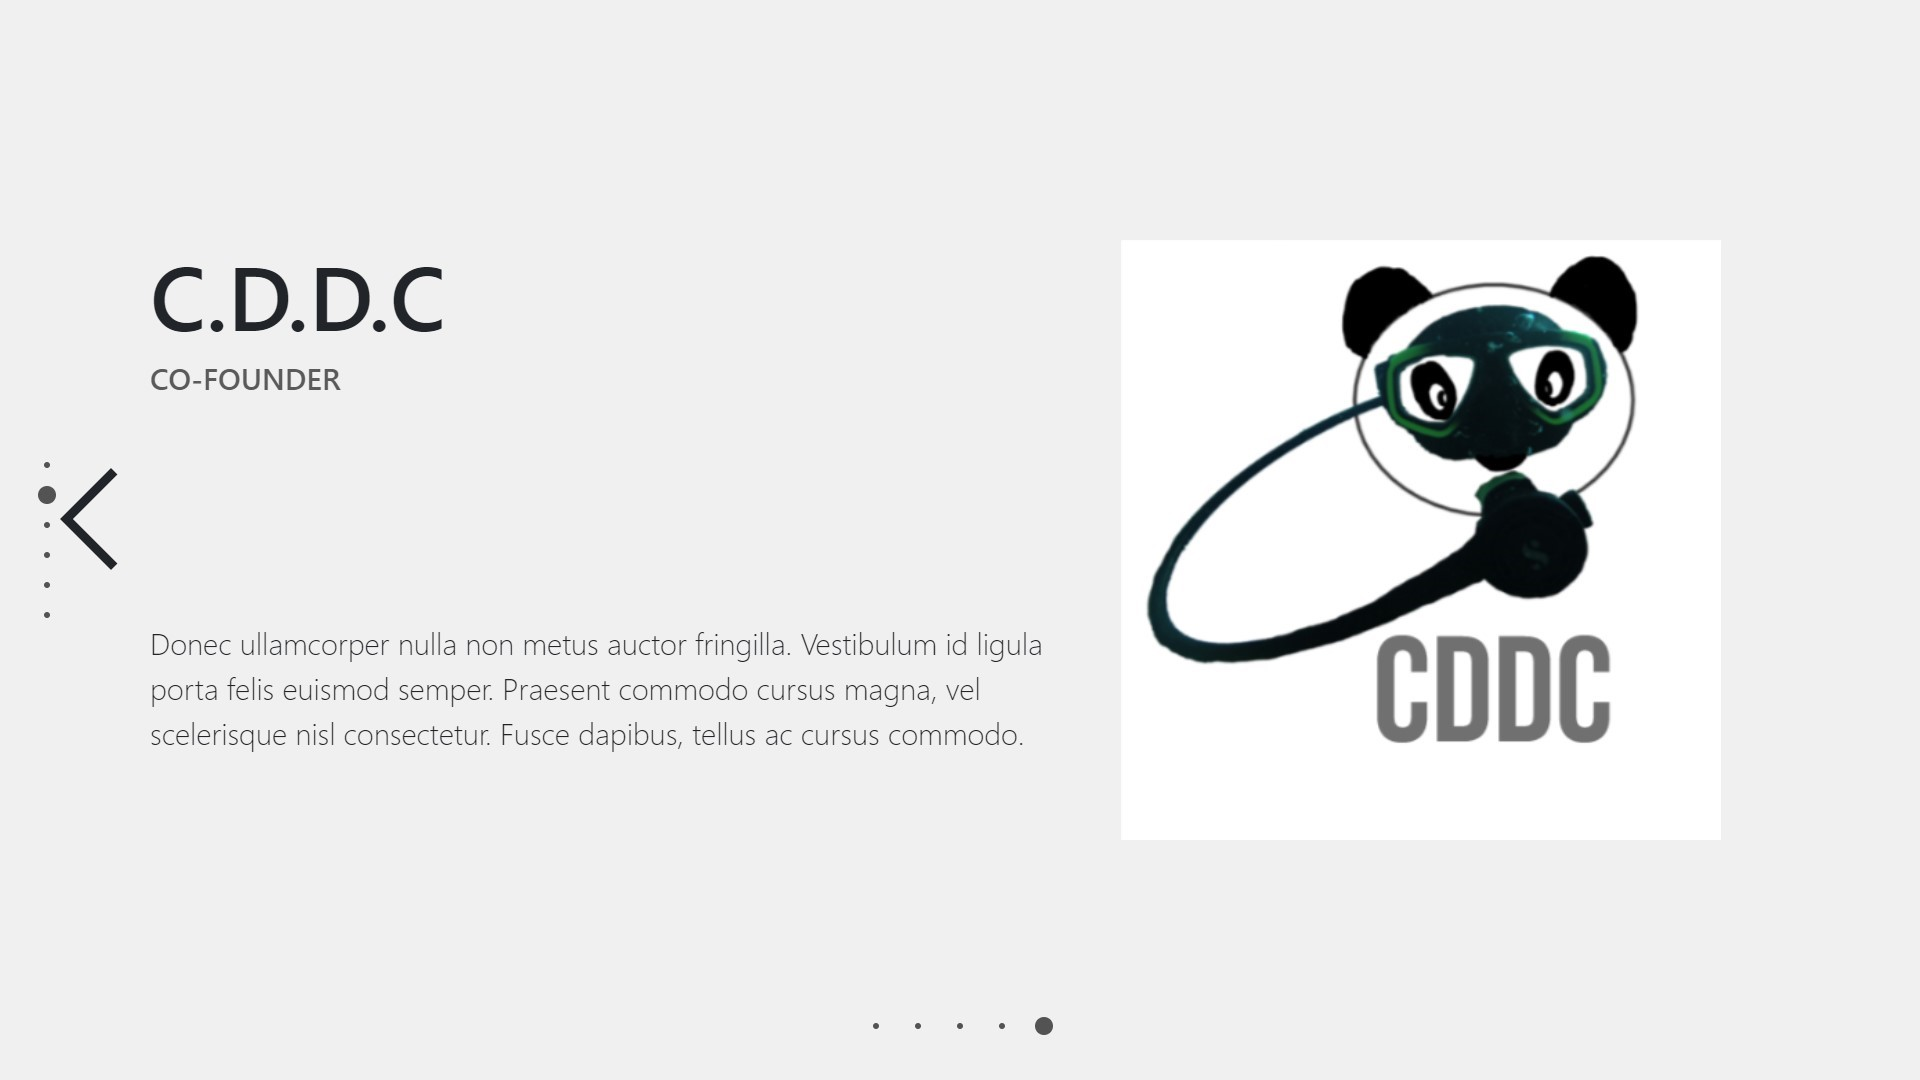
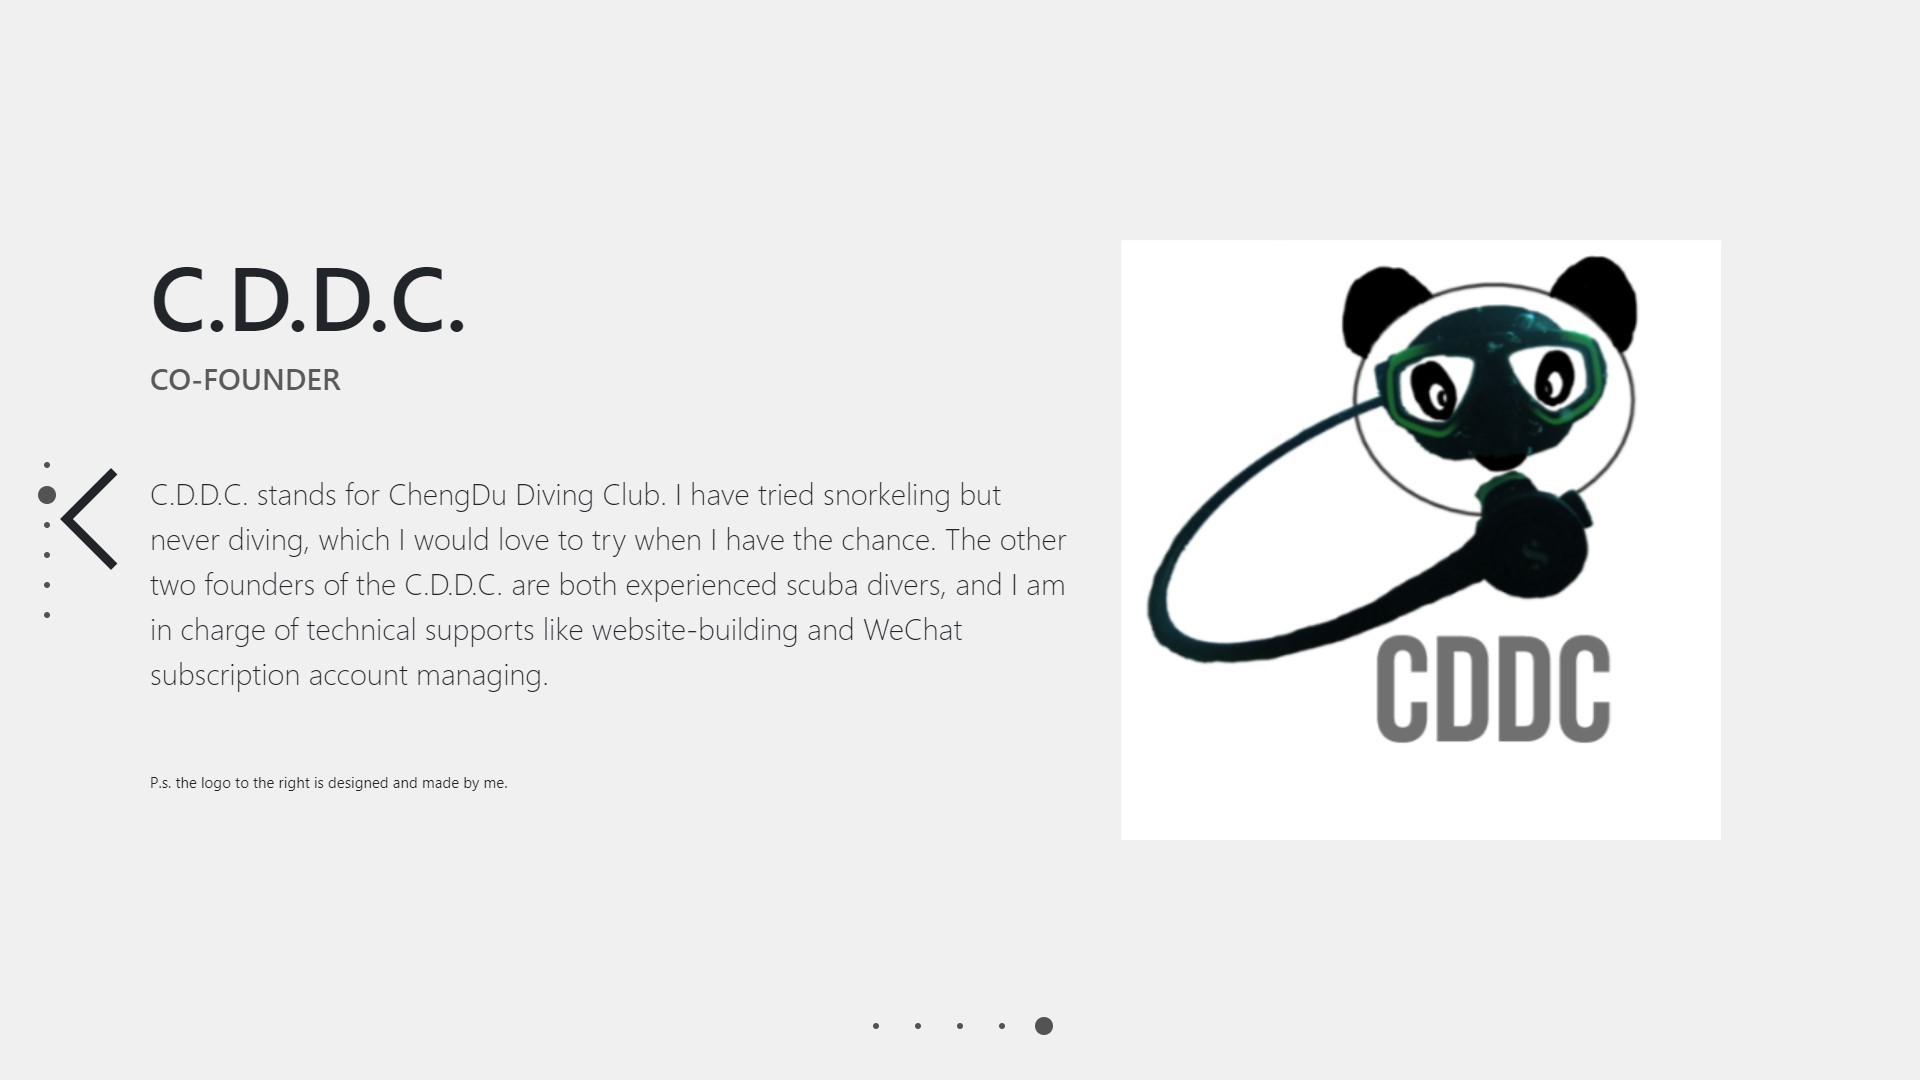
C.D.D.C.

Changed region(s): [[0.0938, 0.4583, 0.5625, 0.55], [0.0625, 0.5806, 0.5312, 0.6417], [0.0938, 0.6722, 0.5312, 0.7333]]

diff --git a/portfolio.html b/portfolio.html
@@ -26,15 +26,15 @@
   </style>
 </head>
 <body class="color-292929">
-    <div id="overlay-msg" class="float-middle">
-        <div id="news-popup" class="float-middle" style="height:400px; width:600px">
-            <div>
-              <button id="close-popup" type="button" onclick="closePopup()" style="color:#e0e0e0"> X </button>
-              <div id="popup-text" style="color:#e0e0e0">
-              </div>
-            </div>
-        </div>
+  <!-- <div id="overlay-msg" class="float-middle">
+    <div id="news-popup" class="float-middle" style="height:400px; width:600px">
+      <div>
+        <button id="close-popup" type="button" onclick="closePopup()" style="color:#e0e0e0"> X </button>
+        <div id="popup-text" style="color:#e0e0e0"></div>
+      </div>
     </div>
+  </div> -->
+
   <div id="map" style="position: absolute; right:0px; height:100px; width:209px; background-color: transparent; z-index: 9; margin:0px;">
     <a id="map1" href="#page1"><img class='minimap' src="1-1.jpg"></a>
     <a href="#"><img class='minimap' src="empty.png"></a>
@@ -79,6 +79,7 @@
     <a href="#"><img class='minimap' src="empty.png"></a>
     <a href="#"><img class='minimap' src="empty.png"></a>
   </div>
+
   <div id="mapTrailer" style="position: absolute; right:250px; top:10px; background-color: transparent; z-index: 9; margin:0px; text-align:center; color: rgb(83,83,83)">  
   </div>
 
@@ -166,9 +167,10 @@
       <div class="slide fp-viewing-page2-4" id="CDDC">
         <div class="row featurette" style="padding-left:100px; padding-right: 100px">
           <div class="col-lg-7">
-            <h1 class="featurette-heading">C.D.D.C</h1>
+            <h1 class="featurette-heading">C.D.D.C.</h1>
             <h5 class="font-color-5a5a5a">CO-FOUNDER</h5>
-            <p class="lead" style="margin-top: 150px">Donec ullamcorper nulla non metus auctor fringilla. Vestibulum id ligula porta felis euismod semper. Praesent commodo cursus magna, vel scelerisque nisl consectetur. Fusce dapibus, tellus ac cursus commodo.</p>
+            <p class="lead" style="margin-top: 50px">C.D.D.C. stands for ChengDu Diving Club. I have tried snorkeling but never diving, which I would love to try when I have the chance. The other two founders of the C.D.D.C. are both experienced scuba divers, and I am in charge of technical-support, like website-building and WeChat subscription account managing.</p>
+            <p style="margin-top: 50px; font-size: 10px">P.s. the logo to the right is designed and made by me.</p>
           </div>
           <div class="col-lg-5">
             <img src="CDDC-logo.png" width="400" height="400">
